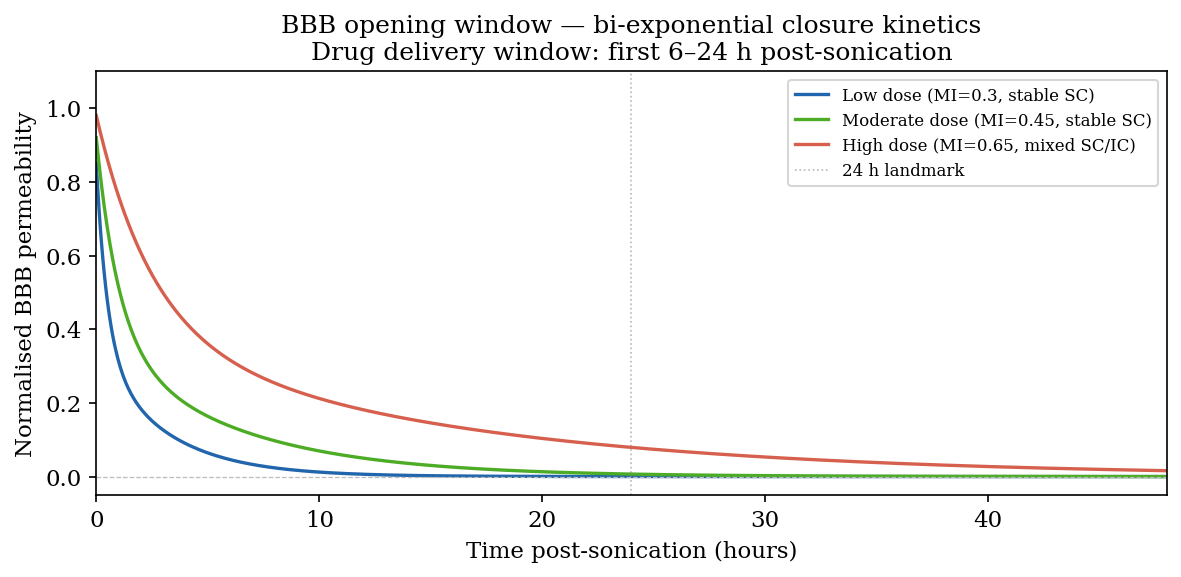
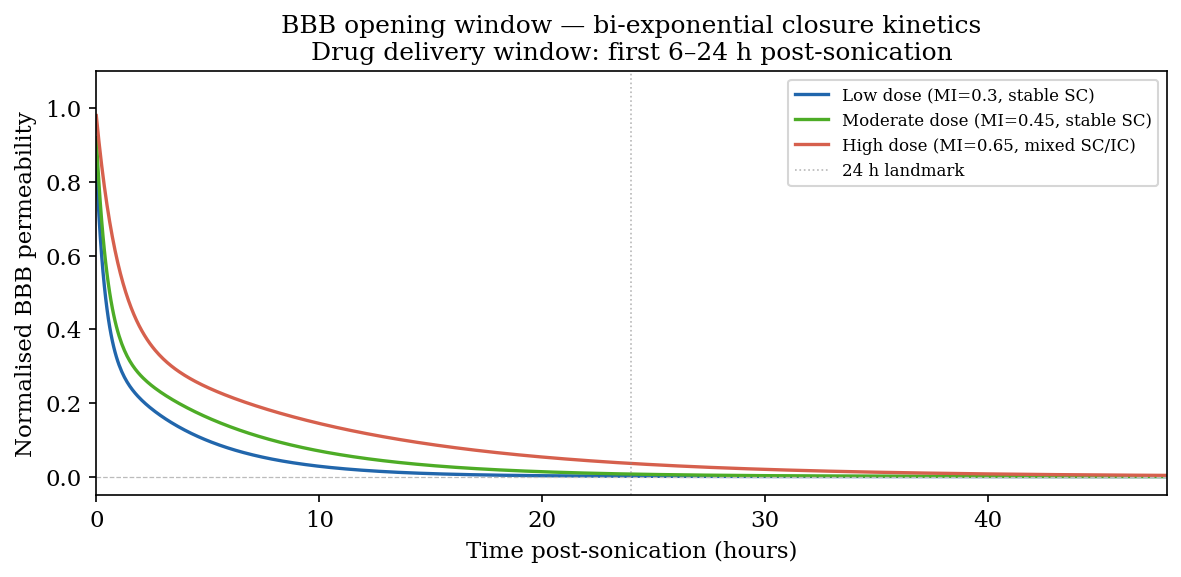
fix(bbb): Ch23 fig06 uses the documented bi-exponential closure kernel
Ch23 §23.6 documents the bi-exponential BBB closure
P(t)=P_peak[0.6 e^(-t/τ_fast)+0.4 e^(-t/τ_slow)] with τ_fast≈0.5 h, τ_slow≈6 h,
and names bbb_opening::dose_response::bbb_closure_permeability. But fig06 used
analytical::bbb::bbb_closure_kinetics, which locks τ_slow = 6·τ_fast and so
cannot reproduce the documented 0.5 h / 6 h pair (ratio 12), and the documented
function was not PyO3-bound.

- Bind bbb_closure_permeability (explicit τ_fast/τ_slow) with register +
  __init__ re-export (list and __all__).
- Rewire fig06 to kw.bbb_closure_permeability with per-dose-regime (τ_fast,
  τ_slow), using the canonical 0.5 h / 6 h for the moderate-dose case.

The figure now matches its §23.6 model and the function the chapter names.
P(0)=1.0, P(0.5h)=0.589, P(6h)=0.147 verified; dose-response tests pass.

diff --git a/crates/kwavers-python/src/analytical_bindings/bbb.rs b/crates/kwavers-python/src/analytical_bindings/bbb.rs
@@ -93,3 +93,41 @@ pub fn ceus_backscatter_signal(
     let result = bbb_mod::ceus_backscatter_signal(c_s, sigma_bs_m2, thickness_m);
     Ok(result.into_pyarray(py).unbind())
 }
+
+/// Bi-exponential post-sonication BBB closure (book §23.6) with explicit fast and
+/// slow recovery time constants:
+///
+///     P(t) = P_peak · [0.6·e^(−t/τ_fast) + 0.4·e^(−t/τ_slow)]
+///
+/// The fast component (τ_fast ≈ 0.5 h) is tight-junction re-assembly; the slow
+/// component (τ_slow ≈ 6 h) is vesicular-transport clearance (Deffieux &
+/// Konofagou 2010). This is the function the chapter names — it sets τ_fast and
+/// τ_slow independently (unlike `bbb_closure_kinetics`, which locks τ_slow = 6·τ_fast).
+///
+/// Args:
+///     t_h: Time post-sonication [h].
+///     p_peak: Peak permeability enhancement at t = 0.
+///     tau_fast_h: Fast recovery time constant [h].
+///     tau_slow_h: Slow recovery time constant [h].
+///
+/// Returns:
+///     Permeability enhancement P(t) over the time array.
+#[pyfunction]
+#[pyo3(signature = (t_h, p_peak, tau_fast_h, tau_slow_h))]
+pub fn bbb_closure_permeability(
+    py: Python<'_>,
+    t_h: PyReadonlyArray1<f64>,
+    p_peak: f64,
+    tau_fast_h: f64,
+    tau_slow_h: f64,
+) -> PyResult<Py<PyArray1<f64>>> {
+    use kwavers_physics::acoustics::transcranial::bbb_opening::bbb_closure_permeability as closure;
+    let t_s = t_h
+        .as_slice()
+        .map_err(|e| PyRuntimeError::new_err(e.to_string()))?;
+    let result: Vec<f64> = t_s
+        .iter()
+        .map(|&t| closure(t, p_peak, tau_fast_h, tau_slow_h))
+        .collect();
+    Ok(result.into_pyarray(py).unbind())
+}

diff --git a/crates/kwavers-python/examples/book/ch24_bbb_lifu_opening.py b/crates/kwavers-python/examples/book/ch24_bbb_lifu_opening.py
@@ -349,18 +349,20 @@ print("[fig06] BBB opening window: permeability vs time post-sonication")
 
 t_h = np.linspace(0.0, 48.0, 800)  # hours post-sonication
 
-# Three parameter regimes (McDannold 2008 / Tung 2010)
+# Three dose regimes (McDannold 2008 / Tung 2010): (τ_fast h, τ_slow h, P_peak).
+# Higher dose / inertial cavitation prolongs both recovery constants.
 scenarios = [
-    (1.0, 0.85, "#2166ac", "Low dose (MI=0.3, stable SC)"),
-    (2.0, 0.92, "#4dac26", "Moderate dose (MI=0.45, stable SC)"),
-    (5.0, 0.98, "#d6604d", "High dose (MI=0.65, mixed SC/IC)"),
+    (0.4, 4.0, 0.85, "#2166ac", "Low dose (MI=0.3, stable SC)"),
+    (0.5, 6.0, 0.92, "#4dac26", "Moderate dose (MI=0.45, stable SC)"),
+    (1.0, 10.0, 0.98, "#d6604d", "High dose (MI=0.65, mixed SC/IC)"),
 ]
 
 fig, ax = plt.subplots(figsize=(8, 4))
-for tau_close, perm_pk, col, lbl in scenarios:
-    # P(t) = perm_peak·[0.6·exp(-t/τ_fast)+0.4·exp(-t/τ_slow)]
-    # via kw.bbb_closure_kinetics (Deffieux & Konofagou 2010 §IV)
-    p = np.asarray(kw.bbb_closure_kinetics(t_h, tau_close, perm_pk))
+for tau_fast, tau_slow, perm_pk, col, lbl in scenarios:
+    # P(t) = P_peak·[0.6·exp(-t/τ_fast)+0.4·exp(-t/τ_slow)] via the §23.6 Rust
+    # kernel kw.bbb_closure_permeability (Deffieux & Konofagou 2010 §IV), which
+    # sets τ_fast and τ_slow independently (canonical 0.5 h / 6 h, moderate dose).
+    p = np.asarray(kw.bbb_closure_permeability(t_h, perm_pk, tau_fast, tau_slow))
     ax.plot(t_h, p, color=col, lw=1.6, label=lbl)
 
 # Baseline permeability

diff --git a/crates/kwavers-python/python/pykwavers/__init__.py b/crates/kwavers-python/python/pykwavers/__init__.py
@@ -502,6 +502,7 @@ from ._pykwavers import (
     # ── BBB permeability, closure kinetics, CEUS ─────────────────────────────
     bbb_permeability_hill,
     bbb_closure_kinetics,
+    bbb_closure_permeability,
     ceus_backscatter_signal,
     # ── Sonogenetics / neuromodulation ───────────────────────────────────────
     compute_acoustic_membrane_tension_py,
@@ -889,6 +890,7 @@ __all__ = [
     # ── BBB permeability, closure kinetics, CEUS ─────────────────────────────
     "bbb_permeability_hill",
     "bbb_closure_kinetics",
+    "bbb_closure_permeability",
     "ceus_backscatter_signal",
     # ── Sonogenetics / neuromodulation ───────────────────────────────────────
     "compute_acoustic_membrane_tension_py",

diff --git a/crates/kwavers-python/src/analytical_bindings.rs b/crates/kwavers-python/src/analytical_bindings.rs
@@ -425,6 +425,7 @@ pub fn register_book(m: &Bound<'_, PyModule>) -> PyResult<()> {
     // bbb
     m.add_function(wrap_pyfunction!(bbb::bbb_permeability_hill, m)?)?;
     m.add_function(wrap_pyfunction!(bbb::bbb_closure_kinetics, m)?)?;
+    m.add_function(wrap_pyfunction!(bbb::bbb_closure_permeability, m)?)?;
     m.add_function(wrap_pyfunction!(bbb::ceus_backscatter_signal, m)?)?;
     // inverse
     m.add_function(wrap_pyfunction!(inverse::helmholtz_1d_fd_matrix, m)?)?;